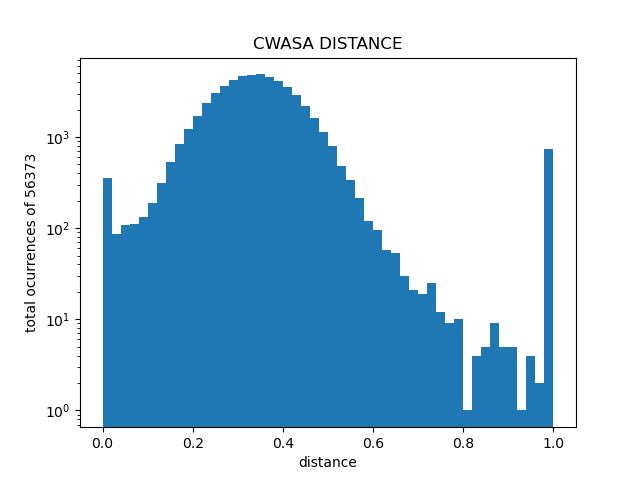
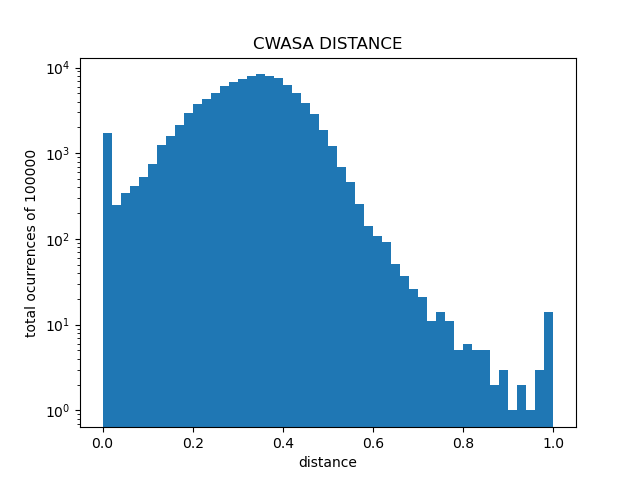
Minor changes on figures

diff --git a/matching/testing/test_similarity_measures.py b/matching/testing/test_similarity_measures.py
@@ -4,6 +4,8 @@ import matplotlib.pyplot as plt
 
 import numpy as np
 
+import json
+
 from matching.SimilarityMeasures import *
 
 np.random.seed(42)
@@ -22,9 +24,18 @@ if __name__ == '__main__':
 
     all_articles = util.get_unnested_articles(article_pairs)
 
-    idf = util.calculate_full_n_gram_idf(all_articles, n, lowercase=True)
 
-    word_idf = util.calculate_full_word_idf(all_articles, lowercase=True)
+    try:
+        with open("../experiments/results/4_gram_idf.json", 'r') as fp:
+            idf = json.load(fp)[1]
+    except:
+        idf = util.calculate_full_n_gram_idf(all_articles, n, lowercase=True)
+
+    try:
+        with open("../experiments/results/word_idf.json", "r") as fp:
+            word_idf = json.load(fp)[1]
+    except:
+        word_idf = util.calculate_full_word_idf(all_articles, lowercase=True)
 
     cwasa_sims = []
     avg_sims = []
@@ -66,9 +77,6 @@ if __name__ == '__main__':
 
         tf_word2 = util.calculate_word_tf(pre2_v2_n_gram)
 
-        print(doc_matching.match_documents_max(pre1_v1, pre2_v1,
-                                               doc_matching.calculate_similarity_matrix(pre1_v1, pre2_v1, "max_matching")))
-
         for i, sent1 in enumerate(pre1_v1):
             for j, sent2 in enumerate(pre2_v1):
                 cwasa_sims.append(CWASA_similarity(sent1, sent2))
@@ -82,8 +90,10 @@ if __name__ == '__main__':
                 n_gram_sims.append(n_gram_similarity(sent1, sent2, tf1, tf2, idf, n))
                 word_tf_idf_sims.append(bag_of_words_tf_idf_similarity(sent1, sent2, tf_word1, tf_word2, word_idf))
 
+        print(f"Already got {len(word_tf_idf_sims)} similarity scores")
         if len(word_tf_idf_sims) > evals:
             break
+
 
     # print("CWASA", cwasa_sims[:100])
     # print("AVG", avg_sims[:100])
@@ -97,7 +107,7 @@ if __name__ == '__main__':
     plt.title("CWASA DISTANCE")
     plt.xlabel('distance')
     plt.ylabel(f'total ocurrences of {len(cwasa_sims[:evals])}')
-    plt.savefig("../figures/CWASA_distance_log.png")
+    plt.savefig("../../figures/CWASA_distance_log.png")
     plt.show()
 
     plt.hist(avg_sims[:evals], 50)
@@ -105,7 +115,7 @@ if __name__ == '__main__':
     plt.title("AVERAGE DISTANCE")
     plt.xlabel('distance')
     plt.ylabel(f'total ocurrences of {len(avg_sims[:evals])}')
-    plt.savefig("../figures/avg_sim_distance_log.png")
+    plt.savefig("../../figures/avg_sim_distance_log.png")
     plt.show()
 
     plt.hist(cos_sims[:evals], 50)
@@ -113,7 +123,7 @@ if __name__ == '__main__':
     plt.title("COSINE DISTANCE")
     plt.xlabel('distance')
     plt.ylabel(f'total ocurrences of {len(cos_sims[:evals])}')
-    plt.savefig("../figures/cos_sim_distance_log.png")
+    plt.savefig("../../figures/cos_sim_distance_log.png")
     plt.show()
 
     plt.hist(max_sims[:evals], 50)
@@ -121,7 +131,7 @@ if __name__ == '__main__':
     plt.title("MAX DISTANCE")
     plt.xlabel('distance')
     plt.ylabel(f'total ocurrences of {len(max_sims[:evals])}')
-    plt.savefig("../figures/max_sim_distance_log.png")
+    plt.savefig("../../figures/max_sim_distance_log.png")
     plt.show()
 
     plt.hist(n_gram_sims[:evals], 50)
@@ -129,7 +139,7 @@ if __name__ == '__main__':
     plt.title("N-GRAM DISTANCE")
     plt.xlabel('distance')
     plt.ylabel(f'total ocurrences of {len(n_gram_sims[:evals])}')
-    plt.savefig("../figures/n_gram_distance_log.png")
+    plt.savefig("../../figures/n_gram_distance_log.png")
     plt.show()
 
     plt.hist(word_tf_idf_sims[:evals], 50)
@@ -137,7 +147,7 @@ if __name__ == '__main__':
     plt.title("WORD-TF-IDF DISTANCE")
     plt.xlabel('distance')
     plt.ylabel(f'total ocurrences of {len(word_tf_idf_sims[:evals])}')
-    plt.savefig("../figures/bag_of_words_distance_log.png")
+    plt.savefig("../../figures/bag_of_words_distance_log.png")
     plt.show()
 
     plt.hist(hungarian_sims[:evals], 50)
@@ -145,7 +155,7 @@ if __name__ == '__main__':
     plt.title("MAXIMUM MATCHING DISTANCE")
     plt.xlabel('distance')
     plt.ylabel(f'total ocurrences of {len(hungarian_sims[:evals])}')
-    plt.savefig("../figures/maximum_matching_distance_log.png")
+    plt.savefig("../../figures/maximum_matching_distance_log.png")
     plt.show()
 
 
@@ -156,7 +166,7 @@ if __name__ == '__main__':
     plt.title("CWASA DISTANCE")
     plt.xlabel('distance')
     plt.ylabel(f'total ocurrences of {len(cwasa_sims[:evals])}')
-    plt.savefig("../figures/CWASA_distance.png")
+    plt.savefig("../../figures/CWASA_distance.png")
     plt.show()
 
     plt.hist(avg_sims[:evals], 50)
@@ -164,7 +174,7 @@ if __name__ == '__main__':
     plt.title("AVERAGE DISTANCE")
     plt.xlabel('distance')
     plt.ylabel(f'total ocurrences of {len(avg_sims[:evals])}')
-    plt.savefig("../figures/avg_sim_distance.png")
+    plt.savefig("../../figures/avg_sim_distance.png")
     plt.show()
 
     plt.hist(cos_sims[:evals], 50)
@@ -172,7 +182,7 @@ if __name__ == '__main__':
     plt.title("COSINE DISTANCE")
     plt.xlabel('distance')
     plt.ylabel(f'total ocurrences of {len(cos_sims[:evals])}')
-    plt.savefig("../figures/cos_sim_distance.png")
+    plt.savefig("../../figures/cos_sim_distance.png")
     plt.show()
 
     plt.hist(max_sims[:evals], 50)
@@ -180,7 +190,7 @@ if __name__ == '__main__':
     plt.title("MAX DISTANCE")
     plt.xlabel('distance')
     plt.ylabel(f'total ocurrences of {len(max_sims[:evals])}')
-    plt.savefig("../figures/max_sim_distance.png")
+    plt.savefig("../../figures/max_sim_distance.png")
     plt.show()
 
     plt.hist(n_gram_sims[:evals], 50)
@@ -188,7 +198,7 @@ if __name__ == '__main__':
     plt.title("N-GRAM DISTANCE")
     plt.xlabel('distance')
     plt.ylabel(f'total ocurrences of {len(n_gram_sims[:evals])}')
-    plt.savefig("../figures/n_gram_distance.png")
+    plt.savefig("../../figures/n_gram_distance.png")
     plt.show()
 
     plt.hist(word_tf_idf_sims[:evals], 50)
@@ -196,12 +206,12 @@ if __name__ == '__main__':
     plt.title("WORD-TF-IDF DISTANCE")
     plt.xlabel('distance')
     plt.ylabel(f'total ocurrences of {len(word_tf_idf_sims[:evals])}')
-    plt.savefig("../figures/bag_of_words_distance.png")
+    plt.savefig("../../figures/bag_of_words_distance.png")
     plt.show()
 
     plt.hist(hungarian_sims[:evals], 50)
     plt.title("MAXIMUM MATCHING DISTANCE")
     plt.xlabel('distance')
     plt.ylabel(f'total ocurrences of {len(hungarian_sims[:evals])}')
-    plt.savefig("../figures/maximum_matching_distance.png")
+    plt.savefig("../../figures/maximum_matching_distance.png")
     plt.show()

diff --git a/matching/experiments/evaluate_progress.py b/matching/experiments/evaluate_progress.py
@@ -63,7 +63,7 @@ def get_results_done(results):
                     else:
                         res_dict[v1][v2]["Recall"].append(0.0)
 
-    perf = pd.DataFrame(columns=["similarity_measure", "matching_strategy", "precision", "recall", "f1", "sim correct matches", "sim incorrect matches"])
+    perf = pd.DataFrame(columns=["similarity_measure", "matching_strategy", "precision", "recall", "F1", "sim correct matches", "sim incorrect matches"])
 
     for elem in res_dict:
         for elem2 in res_dict[elem]:
@@ -71,17 +71,27 @@ def get_results_done(results):
             print(res_dict[elem][elem2])
             prec = np.mean(res_dict[elem][elem2]["Precision"])
             rec = np.mean(res_dict[elem][elem2]["Recall"])
-            f1 = 2 * (prec * rec) / (prec + rec)
+            F1 = 2 * (prec * rec) / (prec + rec)
             sim_correct = np.mean(res_dict[elem][elem2]["Correct sims"])
             sim_incorrect = np.mean(res_dict[elem][elem2]["Incorrect sims"])
             print("Average precision:", prec)
             print("Average recall:", rec)
-            print("F1 score:", f1)
+            print("F1 score:", F1)
             elem2_short = ""
             if elem2 == "max_increasing_subsequence":
                 elem2_short = "*"
-            perf = perf.append({"similarity_measure": elem, "matching_strategy": elem2_short,
-                                "precision": prec, "recall": rec, "f1": f1,
+
+            sent_sim_name = elem
+            if elem == "max_matching":
+                sent_sim_name = "bipartite"
+            elif elem == "bag_of_words":
+                sent_sim_name = "bag of words"
+            elif elem == "n_gram":
+                sent_sim_name = "4-gram"
+            
+
+            perf = perf.append({"similarity_measure": sent_sim_name, "matching_strategy": elem2_short,
+                                "precision": prec, "recall": rec, "F1": F1,
                                 "sim correct matches": sim_correct,
                                 "sim incorrect matches": sim_incorrect}, ignore_index=True)
 
@@ -89,8 +99,8 @@ def get_results_done(results):
 
     fig, ax = plt.subplots(figsize=(10, 10))
 
-    perf.plot.scatter('precision', 'recall', c='f1', s=100, cmap='plasma', fig=fig, ax=ax, edgecolor='k')
-    fig.get_axes()[1].set_ylabel('f1')
+    perf.plot.scatter('precision', 'recall', c='F1', s=100, cmap='plasma', fig=fig, ax=ax, edgecolor='k')
+    fig.get_axes()[1].set_ylabel('F1')
     for idx, row in perf.iterrows():
         ax.annotate(row['similarity_measure'] + row['matching_strategy'], row[['precision', 'recall']], fontsize=18,
                     xytext=(10, -5),

diff --git a/matching/experiments/evaluate_evaluations.py b/matching/experiments/evaluate_evaluations.py
@@ -70,29 +70,38 @@ def get_results_done(results, name):
                     else:
                         res_dict[v1][v2]["Recall"].append(0.0)
 
-    perf = pd.DataFrame(columns=["similarity_measure", "matching_strategy", "precision", "recall", "f1"])
+    perf = pd.DataFrame(columns=["similarity_measure", "matching_strategy", "precision", "recall", "F1"])
 
     for elem in res_dict:
         for elem2 in res_dict[elem]:
             print(elem, elem2)
             prec = np.mean(res_dict[elem][elem2]["Precision"])
             rec = np.mean(res_dict[elem][elem2]["Recall"])
-            f1 = 2 * (prec * rec) / (prec + rec)
+            F1 = 2 * (prec * rec) / (prec + rec)
             print("Average precision:", prec)
             print("Average recall:", rec)
-            print("F1 score:", f1)
+            print("F1 score:", F1)
             elem2_short = ""
             if elem2 == "max_increasing_subsequence":
                 elem2_short = "*"
-            perf = perf.append({"similarity_measure": elem, "matching_strategy": elem2_short,
-                                "precision": prec, "recall": rec, "f1": f1}, ignore_index=True)
+
+            sent_sim_name = elem
+            if elem == "max_matching":
+                sent_sim_name = "bipartite"
+            elif elem == "bag_of_words":
+                sent_sim_name = "bag of words"
+            elif elem == "n_gram":
+                sent_sim_name = "4-gram"
+                
+            perf = perf.append({"similarity_measure": sent_sim_name, "matching_strategy": elem2_short,
+                                "precision": prec, "recall": rec, "F1": F1}, ignore_index=True)
 
     fig, ax = plt.subplots(figsize=(10, 10))
 
     plt.title(f"Evaluation of {len(results)} files from source {name}")
 
-    perf.plot.scatter('precision', 'recall', c='f1', s=100, cmap='plasma', fig=fig, ax=ax, edgecolor='k')
-    fig.get_axes()[1].set_ylabel('f1')
+    perf.plot.scatter('precision', 'recall', c='F1', s=100, cmap='plasma', fig=fig, ax=ax, edgecolor='k')
+    fig.get_axes()[1].set_ylabel('F1')
     for idx, row in perf.iterrows():
         ax.annotate(row['similarity_measure'] + row['matching_strategy'], row[['precision', 'recall']], fontsize=12,
                     xytext=(10, -5),
